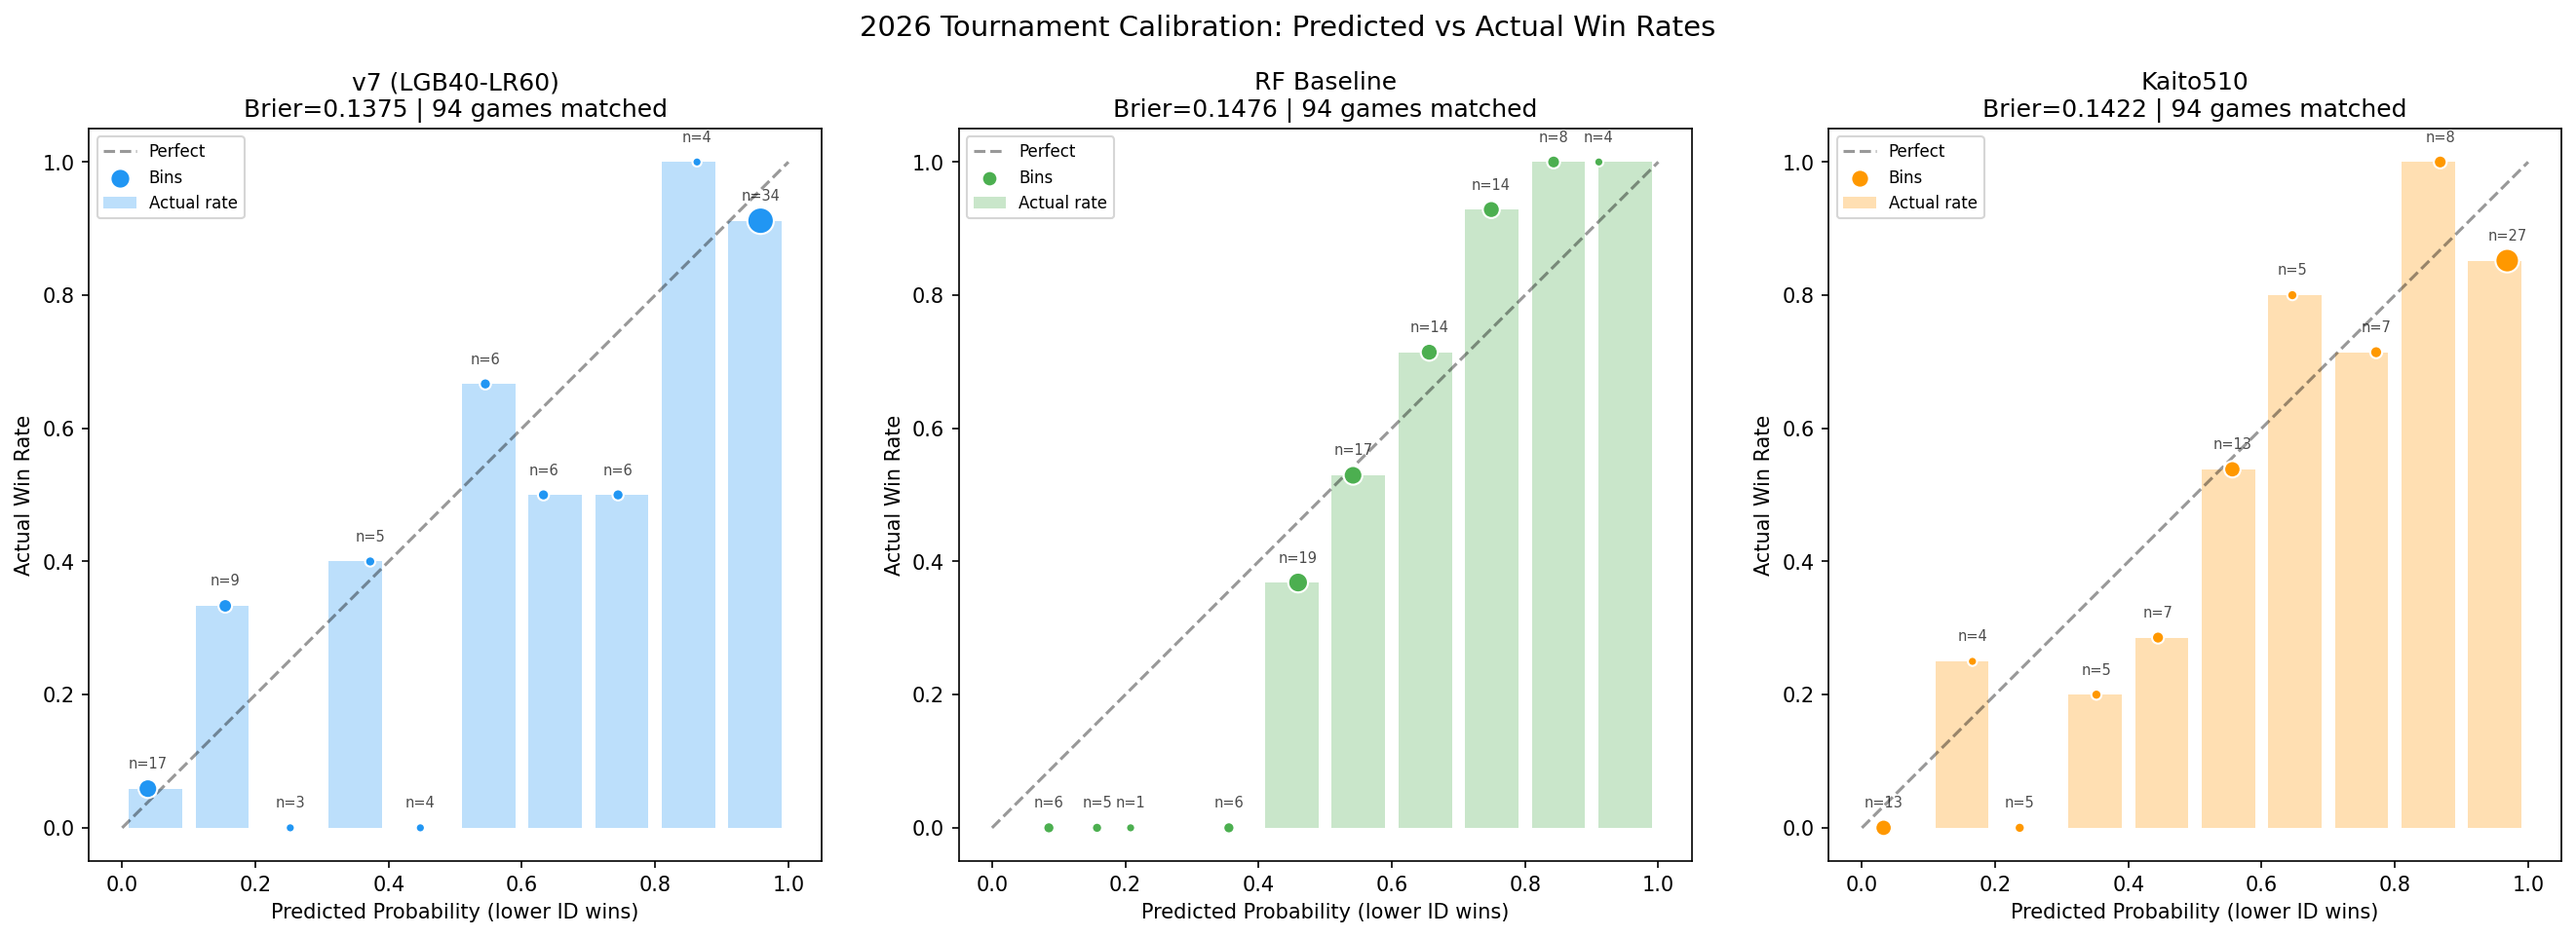
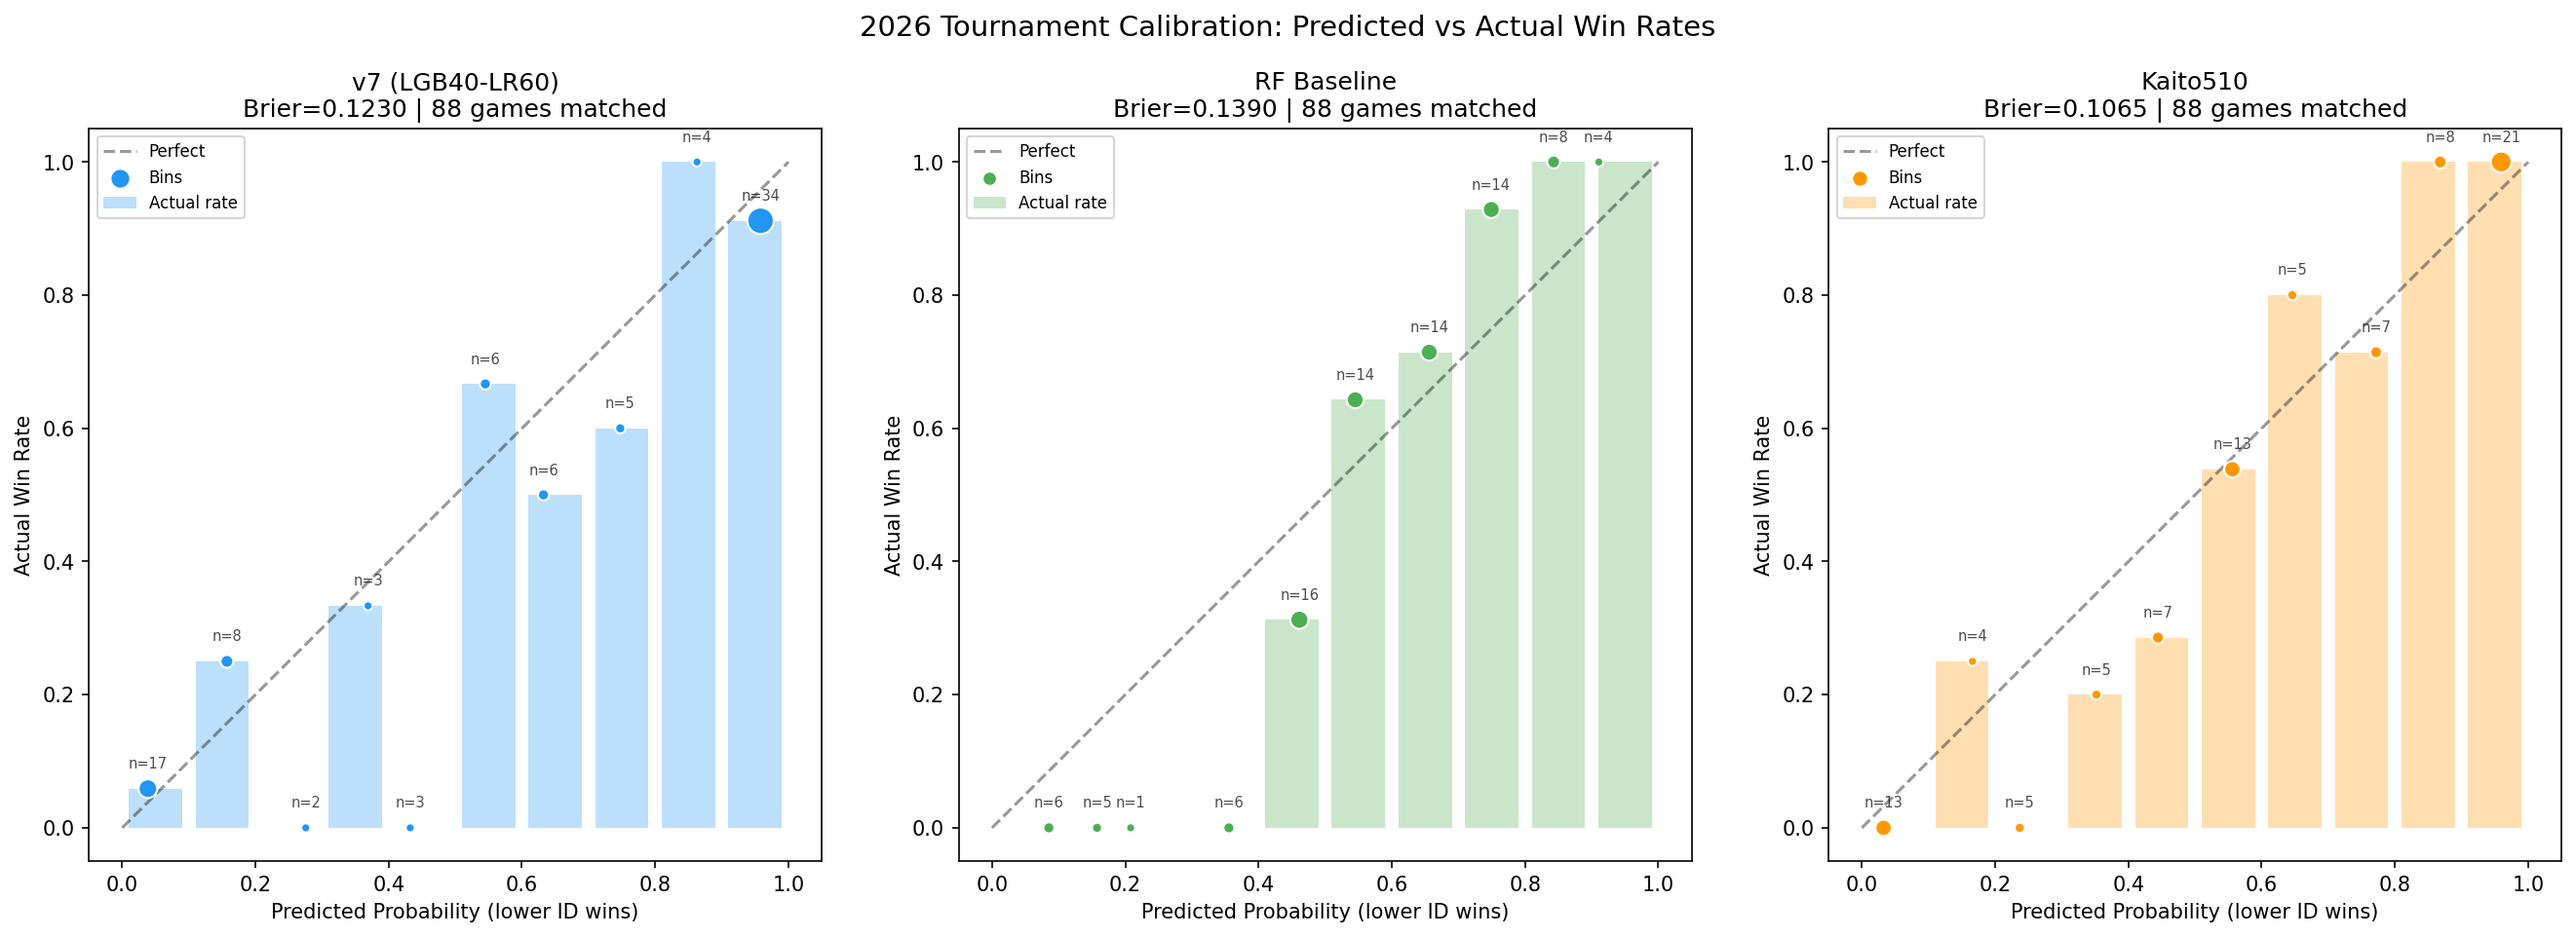
Fix calibration plots: exclude play-in games to match Kaggle scoring
Play-in games aren't Kaggle-scored, so including them skewed Brier
scores. Now matches dashboard: Kaito 0.1065, v7 0.1230, RF 0.1390.

diff --git a/scripts/calibration_2026.py b/scripts/calibration_2026.py
@@ -15,15 +15,18 @@ with open(ROOT / "data/live/results.json") as f:
     results = json.load(f)
 
 # Build ground truth: ID -> outcome (1 if lower TeamId won, 0 otherwise)
+# Exclude Play-In games to match Kaggle scoring (dashboard uses same filter)
 actuals = {}
 for game in results:
+    if game["round"] == "Play-In":
+        continue
     w, l = game["winner_id"], game["loser_id"]
     low, high = min(w, l), max(w, l)
     game_id = f"2026_{low}_{high}"
     outcome = 1 if w == low else 0
     actuals[game_id] = outcome
 
-print(f"Total 2026 games with results: {len(actuals)}")
+print(f"Total 2026 Kaggle-scored games: {len(actuals)}")
 
 # --- Load submissions ---
 def load_submission(path):
